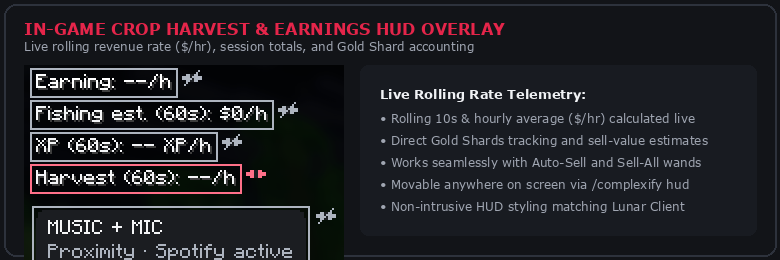
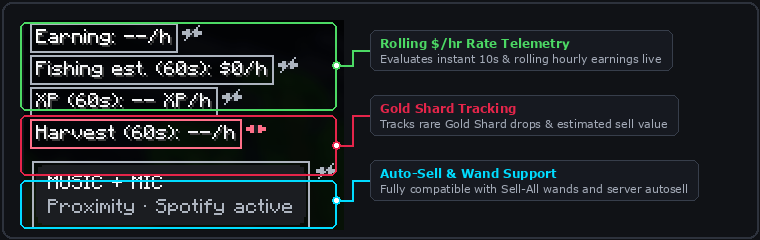
docs: add annotated callout outlines, leader lines, and compact structured cards

diff --git a/README.md b/README.md
@@ -2,7 +2,7 @@
 
 ![Complexify Banner](assets/banner.png)
 
-<img src="assets/logo.png" width="110" alt="Complexify Logo" />
+<img src="assets/logo.png" width="90" alt="Complexify Logo" />
 
 # Complexify
 
@@ -20,148 +20,175 @@
 
 ## 📥 Quick & Easy Installation
 
-Choose the option that fits your setup:
-
 ### Option 1: 1-Click Modpack *(Recommended)*
-> **Best for teammates & new players!** Includes everything pre-configured: **Complexify**, **Proximity Voice Chat**, **Litematica**, and top performance optimizations. Zero manual configuration required.
+> **Best for teammates & new players.** Pre-configured with **Complexify**, **Proximity Voice Chat**, **Litematica**, and top performance optimizations.
 
 1. **Download your launcher bundle** from the [Latest Release](https://github.com/Jlorenzoo/complex-skyblock-tools/releases/latest):
-   - **Prism Launcher**: Download `Full-Pack-Prism-1.21.11.zip`
-   - **Modrinth App**: Download `Full-Pack-Modrinth-1.21.11.mrpack`
+   - **Prism Launcher**: `Full-Pack-Prism-1.21.11.zip`
+   - **Modrinth App**: `Full-Pack-Modrinth-1.21.11.mrpack`
 2. **Import into your launcher**:
-   - In **Prism Launcher**: Click **Add Instance** → **Import from zip** → Choose the file → Click **OK**.
-   - In **Modrinth App**: Click **Create Instance** → **Import** → Choose the file.
-3. Click **Launch** and enjoy!
+   - In **Prism Launcher**: Click **Add Instance** → **Import from zip** → Select file → Click **OK**.
+   - In **Modrinth App**: Click **Create Instance** → **Import** → Select file.
+3. Click **Launch** to play!
 
 ---
 
-### Option 2: Standalone Mod JAR *(Existing Fabric Profile)*
-> Add Complexify to your existing Minecraft Fabric setup.
-
-1. Download **`skyblock-toolkit-1.1.0+mc1.21.11.jar`** from the [Latest Release](https://github.com/Jlorenzoo/complex-skyblock-tools/releases/latest).
-2. Place the `.jar` file directly into your `.minecraft/mods` directory.
-3. Launch Minecraft using **Fabric Loader 0.18.4+** on **Java 21**.
+### Option 2: Standalone Mod JAR *(Existing Fabric Setup)*
+1. Download **`skyblock-toolkit-1.1.0+mc1.21.11.jar`** from [Releases](https://github.com/Jlorenzoo/complex-skyblock-tools/releases/latest).
+2. Drop the `.jar` into your `.minecraft/mods` folder.
+3. Launch Minecraft with **Fabric Loader 0.18.4+** on **Java 21**.
 
 ---
 
-### ⚡ Automatic 1-Click Updates
-Never browse GitHub or drag files again:
-- Complexify automatically checks for updates in the background on startup.
-- When an update is released, click the notification in chat or run **`/complexify update`** to automatically download and install it in one click.
+### ⚡ 1-Click Automatic Updates
+- Complexify checks for updates in the background on startup.
+- Click the alert in chat or run **`/complexify update`** to automatically download and install updates in 1 click.
 
 ---
 
 ## 🎮 Controls & Shortcuts
 
-| Action | Shortcut / Command | Description |
+| Action | Shortcut / Command | What It Does |
 | :--- | :--- | :--- |
-| **Open Complexify Hub** | **`Right Shift`** *(or `Esc` → Complexify)* | Main navigation dashboard and settings hub |
-| **Interactive HUD Canvas** | **`/complexify hud`** | Visual drag-and-drop HUD repositioning & visibility toggles |
+| **Open Main Hub** | **`Right Shift`** *(or `Esc` → Complexify)* | Settings dashboard, search & configuration |
+| **HUD Layout Canvas** | **`/complexify hud`** | Drag & drop on-screen HUD elements & toggle eye icons |
 | **Toggle Blackout (AFK)** | **`F6`** | Screen dimming for long farming/fishing sessions |
-| **Check & Install Updates** | **`/complexify update`** | One-click in-game updater |
-| **Direct Module Shortcuts** | `/complexify farming`<br>`/complexify boosters`<br>`/complexify fishing`<br>`/complexify chat`<br>`/complexify auction` | Jump straight to any specific configuration module |
+| **Check & Install Updates** | **`/complexify update`** | One-click mod updater |
+| **Module Shortcuts** | `/complexify farming`<br>`/complexify boosters`<br>`/complexify fishing`<br>`/complexify chat`<br>`/complexify auction` | Quick jump to specific settings |
 
 ---
 
 ## 🕹 In-Game Functionality Showcase
 
-All HUD overlays, alerts, and telemetry are rendered natively in **Dark Mode** with crisp contrast and Lunar Client–inspired aesthetics.
-
-### 📐 1. Live Drag & Drop HUD Layout Editor (`/complexify hud`)
-Reposition and configure every on-screen HUD widget directly inside the live game environment.
-- **Interactive Dragging**: Move Money Timers, XP Timers, Crop Earnings, and Fishing stats with pixel precision.
-- **Inline Visibility Toggles**: Click the eye icons directly on the canvas to hide or show any element.
-- **Smart Alignment**: Screen-edge snapping keeps your HUD clean and balanced.
-
-![In-Game HUD Layout Editor](assets/screenshots/ingame-hud-editor.png)
+Every HUD display and telemetry feature is rendered natively in **Dark Mode** with clean contrast and zero background clutter.
 
 ---
 
-### ⏱ 2. Booster Countdown Timers & Notification Banners
-Track your active server multipliers and consumable buffs without opening menus.
-- **Dual HUD Countdown Bars**: Independent emerald green Money (`+20%`) and amethyst purple XP (`+150%`) countdown bars display exact remaining time and progress.
-- **5-Second Reminder**: Subtle on-screen flash before a booster expires so you can renew without losing your streak.
-- **Floating Toast Alerts**: Slide-in banner notifications when boosters trigger, coconuts activate, or timers enter their final countdown.
+### 📐 1. Drag & Drop HUD Layout Editor
+> Visually rearrange and toggle every on-screen widget directly in-game.
 
-![In-Game Booster Countdown Timers & Toast Banner](assets/screenshots/ingame-booster-hud.png)
+<div align="center">
+  <img src="assets/screenshots/ingame-hud-editor.png" width="720" alt="In-Game HUD Layout Editor" />
+</div>
 
----
-
-### 🌾 3. Clear Harvest Crop Visibility (Built-In Resource Pack)
-Eliminate accidental harvesting and wasted clicks during farming runs.
-- **Instant Visual Distinction**: Immature wheat, carrots, potatoes, nether wart, and beetroots are 90% desaturated and 25% darkened.
-- **Harvest-Ready Pop**: Fully grown crops retain their vibrant golden colors, making them immediately identifiable from a distance.
-- **One-Click In-Game Toggle**: Switch between Clear Harvest and vanilla textures in-game (`Right Shift → Farming`).
-
-![Clear Harvest In-Game Texture Comparison](assets/screenshots/ingame-clear-harvest.png)
+- **Command**: Run **`/complexify hud`** (or click *Edit HUD* in the hub).
+- **Pixel-Accurate Positioning**: Click and drag any timer, rate tracker, or radar widget anywhere on screen.
+- **1-Click Visibility Toggles**: Click the eye icons directly on the canvas to show or hide individual displays.
+- **Screen Snapping**: Elements snap neatly along screen borders and HUD stacks.
 
 ---
 
-### 💰 4. Live Crop Harvest & Gold Shard HUD Overlay
-Real-time financial telemetry calculated as you harvest.
-- **Rolling Revenue Telemetry**: Calculates instant 10-second and hourly crop revenue (`$/hr`) in real time.
-- **Gold Shard Tracking**: Live session counter and value estimates for rare Gold Shards.
-- **Full Wand Support**: Fully compatible with Auto-Sell and Sell-All wands.
+### ⏱ 2. Booster Countdown Timers & Toast Alerts
+> Track active multipliers and consumable buffs without opening any menus.
 
-![In-Game Crop Harvest & Earnings HUD](assets/screenshots/ingame-crop-earnings.png)
+<div align="center">
+  <img src="assets/screenshots/ingame-booster-hud.png" width="700" alt="Booster Countdown Timers & Toast Banner" />
+</div>
+
+- **Independent Dual Bars**: Separate emerald green **Money (+20%)** and amethyst purple **XP (+150%)** countdown bars show exact remaining time.
+- **5-Second Reminder**: Subtle visual cues flash before a booster expires so you can renew in time.
+- **Floating Toast Banners**: Slide-in notification banners trigger on booster activation and coconut consumption.
 
 ---
 
-### 🎣 5. Fishing Signals & Real-Time Catch Valuation
-Turn fishing into an automated, high-precision workflow.
-- **30-Block Optimal Depth Chime**: Plays a crisp audio chime the instant your bobber reaches optimal 30-block depth.
-- **Bite & Line Snap Audio Cues**: Distinct auditory alerts for fish bites, line snaps, and depleted fishing spots.
-- **Hourly Catch Rate Estimation**: Real-time rolling catch values evaluated against live Complex Skyblock fish market prices.
+### 🌾 3. Clear Harvest Crop Visibility
+> Built-in dynamic resource pack that makes fully grown crops pop out immediately.
 
-![In-Game Fishing Signals & Catch Rate HUD](assets/screenshots/ingame-fishing-signals.png)
+<div align="center">
+  <img src="assets/screenshots/ingame-clear-harvest.png" width="700" alt="Clear Harvest In-Game Crop Comparison" />
+</div>
+
+- **Eliminate Wasted Clicks**: Immature wheat, carrots, potatoes, nether wart, and beetroots are **90% desaturated & 25% darkened**.
+- **Instant Golden Pop**: Mature, harvest-ready crops retain their full vibrant colors.
+- **1-Click In-Game Toggle**: Switch between Clear Harvest and vanilla textures in **Right Shift → Farming**.
+
+---
+
+### 💰 4. Live Crop Harvest & Gold Shard Telemetry
+> Real-time earnings overlay calculated continuously as you farm.
+
+<div align="center">
+  <img src="assets/screenshots/ingame-crop-earnings.png" width="700" alt="Crop Harvest & Gold Shard HUD" />
+</div>
+
+- **Rolling Hourly Rate**: Evaluates your live 10-second and hourly crop farming revenue (**`$/hr`**).
+- **Gold Shard Tracking**: Live session counter and value estimates for rare Gold Shard drops.
+- **Wand Compatibility**: Seamlessly tracks sales from Auto-Sell and Sell-All wands.
+
+---
+
+### 🎣 5. Fishing Signals & Market Catch Valuation
+> High-precision audio cues and projected revenue for Skyblock fishing.
+
+<div align="center">
+  <img src="assets/screenshots/ingame-fishing-signals.png" width="700" alt="Fishing Signals & Valuation HUD" />
+</div>
+
+- **30-Block Optimal Depth Chime**: Plays a crisp audio cue the instant your bobber reaches max depth.
+- **Smart Audio Alerts**: Distinct tones for bite detections, snapped lines, and depleted fishing spots.
+- **Projected Hourly Catch Value**: Evaluates rolling 60s / 5m catch rates against live server fish prices.
 
 ---
 
 ### 📈 6. Mining & XP Rate Benchmark Telemetry
-Live telemetry benchmarks and interactive graph analysis in dark mode.
-- **Real-Time Performance Graphs**: Run 1-minute, 5-minute, or free-run benchmark tests with real-time curve plots.
-- **Booster Isolation**: Compare raw base XP against active booster multipliers to measure true farm efficiency.
-- **Historical Session Ledger**: Review past session stats, average rates, and historical logs.
+> Benchmark your farming efficiency with real-time telemetry graphing.
 
-![In-Game XP Rate Benchmark Graph](assets/screenshots/ingame-xp-rates.png)
+<div align="center">
+  <img src="assets/screenshots/ingame-xp-rates.png" width="720" alt="XP Rate Benchmark Graph" />
+</div>
+
+- **Live Performance Curves**: Track XP gain in real-time across 1-minute, 5-minute, or continuous free-run tests.
+- **Booster Isolation**: Compares raw base XP against active booster multipliers to measure true farm efficiency.
+- **Session History**: Detailed ledgers track past earnings, boosts, and rate test logs.
 
 ---
 
 ### 💬 7. Native Chat Selection & Clipboard Copy
-Interact with Minecraft chat like a modern desktop application.
-- **Drag-to-Select**: Click and drag your mouse across chat messages to highlight text seamlessly.
-- **Smart Gestures**: Double-click to select a word; triple-click to select an entire line.
-- **Instant Copy**: Press **Ctrl + C** (or **Cmd + C** on macOS) to copy directly to your clipboard while preserving clickable server commands and links.
+> Select and copy chat messages like a desktop application.
 
-![In-Game Native Chat Selection & Copy](assets/screenshots/ingame-chat-selection.png)
+<div align="center">
+  <img src="assets/screenshots/ingame-chat-selection.png" width="700" alt="Native Chat Selection & Copy" />
+</div>
+
+- **Drag-to-Select**: Click and drag your cursor across chat lines to highlight text smoothly.
+- **Multi-Click Selection**: Double-click to select a single word; triple-click to select the entire line.
+- **Instant Copy**: Press **Ctrl + C** (or **Cmd + C** on macOS) to copy to clipboard while preserving clickable server links.
 
 ---
 
 ### 🌑 8. Blackout Focus Mode (AFK & Screen Preservation)
-Built for long farming, fishing, and AFK grinding sessions.
-- **One-Key Dimming (`F6`)**: Dim screen opacity from 0% to 100% to protect OLED displays and eliminate glare at night.
-- **Zero Loss of Control**: Full character controls, audio alert chimes, and optional chat overlay remain completely active while dimmed.
+> Designed for long farming, fishing, and AFK sessions without display wear.
 
-![In-Game Blackout AFK Mode](assets/screenshots/ingame-blackout.png)
+<div align="center">
+  <img src="assets/screenshots/ingame-blackout.png" width="700" alt="Blackout AFK Mode" />
+</div>
+
+- **Instant Toggle (`F6`)**: Dim screen opacity from 0% to 100% to eliminate OLED burn-in and night-time glare.
+- **Live Background Passthrough**: Audio chimes, player controls, and optional chat overlay remain fully functional.
 
 ---
 
 ### ⚔ 9. Seasonal Item Abilities & Cooldown HUD
-Specialized on-screen status tracking for custom server equipment.
-- **Active Ability Indicators**: Live HUD effect icons for gear like **Bone Leggings** (Speed / Regen modes) and **Oni Mask**.
-- **Cooldown & State Glint**: Visual indicators display when special abilities are active, cooling down, or ready to fire.
+> On-screen status tracking for custom server equipment and seasonal tools.
 
-![In-Game Seasonal Gear Ability & Cooldown HUD](assets/screenshots/ingame-seasonal-icons.png)
+<div align="center">
+  <img src="assets/screenshots/ingame-seasonal-icons.png" width="700" alt="Seasonal Gear Ability & Cooldown HUD" />
+</div>
+
+- **Mode Indicators**: Live on-screen icons for gear like **Bone Leggings** (Speed / Regen modes) and **Oni Mask**.
+- **Dynamic Glint & Cooldown**: Visual cues show when special abilities are active, cooling down, or ready to fire.
 
 ---
 
 ### 🧭 10. Treasure Chest Discovery Radar HUD
-Never miss a server treasure chest event.
-- **Live Event Countdown**: Displays the exact synchronized server countdown timer on your HUD.
-- **Final 30-Second Warning**: Flashing alert prompts in the closing window before chest expiration.
-- **Distance & Value Telemetry**: Real-time distance and discovery estimates.
+> Synchronized radar tracking for server treasure events.
 
-![In-Game Treasure Chest Radar HUD](assets/screenshots/ingame-treasure-hud.png)
+<div align="center">
+  <img src="assets/screenshots/ingame-treasure-hud.png" width="700" alt="Treasure Chest Radar HUD" />
+</div>
+
+- **Synchronized Countdown**: Real-time event countdown synced directly to server chat alerts.
+- **Closing Window Warning**: Flashes alert prompts during the final 30 seconds before chest despawn.
 
 ---
 
